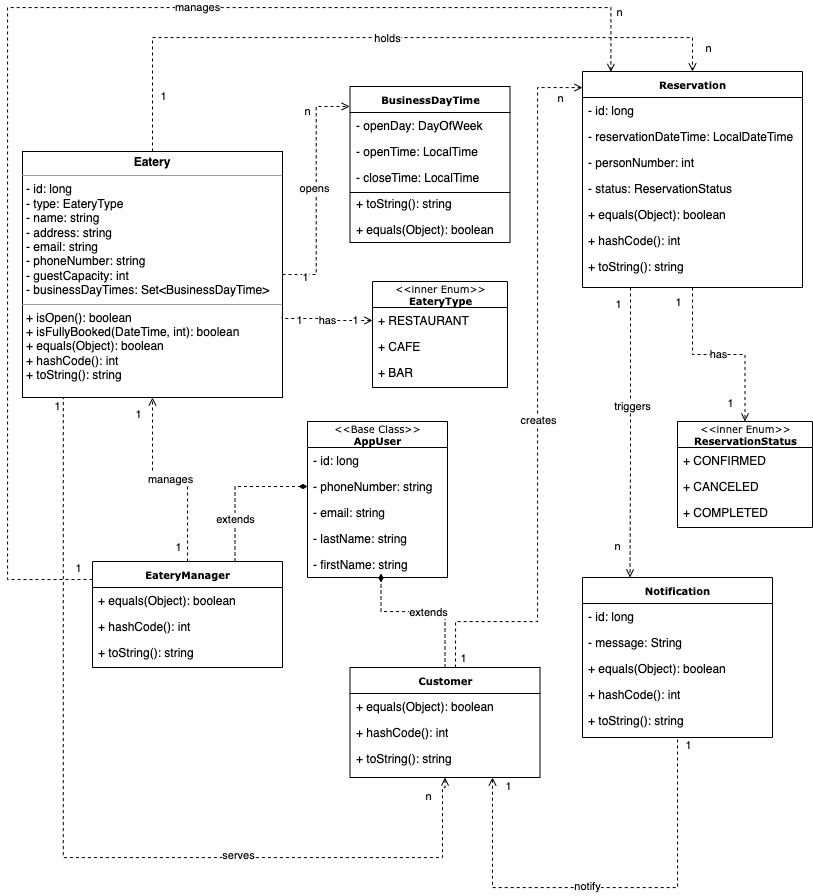
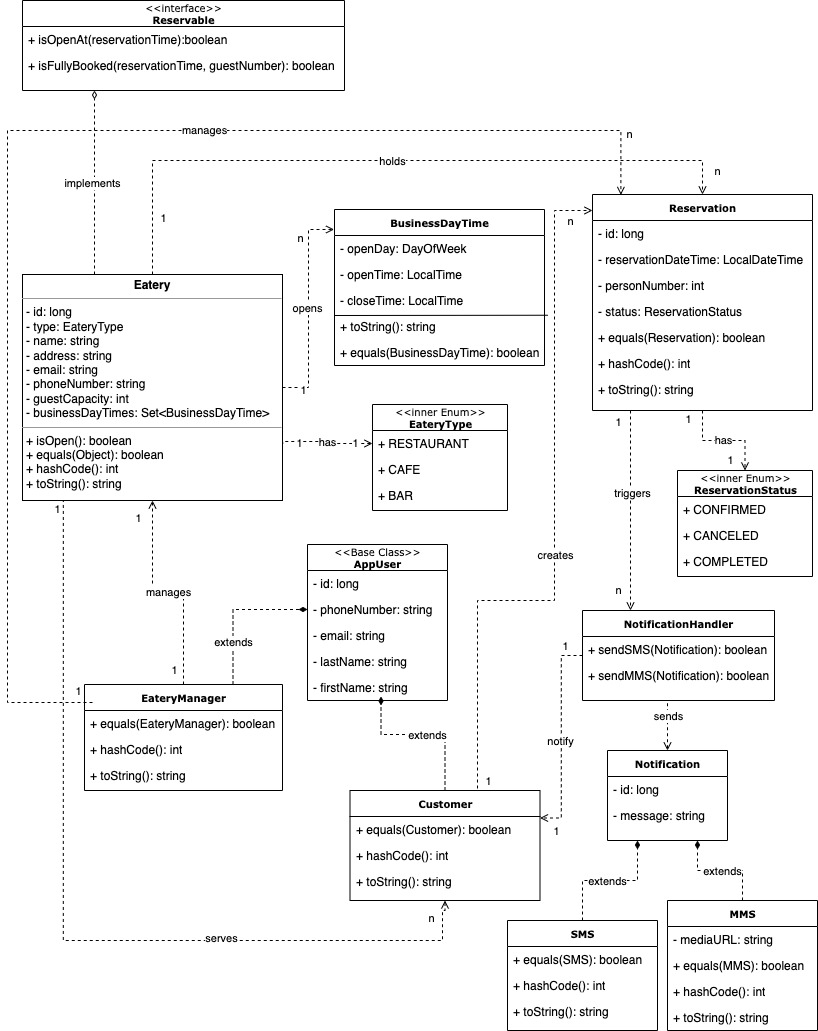
add reservable interface and factory pattern

diff --git a/src/main/java/com/eatery/entity/Eatery.java b/src/main/java/com/eatery/entity/Eatery.java
@@ -18,7 +18,7 @@ import java.util.Set;
 @Getter
 @Setter
 @NoArgsConstructor
-public class Eatery {
+public class Eatery implements Reservable{
     private @Id @GeneratedValue Long id;
     private Type type;
     @Column(nullable = false)
@@ -51,10 +51,22 @@ public class Eatery {
         this.phoneNumber = phoneNumber;
     }
 
-    public Eatery(Type type, String name, String address) {
+    private Eatery(Type type, String name, String address) {
         this.type = type;
         this.name = name;
         this.address = address;
+    }
+
+    /**
+     * Static factory pattern
+     * Creates Eatery object while isolating constructor
+     * @param type Eatery type
+     * @param name Eatery name
+     * @param address Eatery address
+     * @return Eatery object
+      */
+    public static Eatery from(Type type, String name, String address) {
+        return new Eatery(type, name, address);
     }
 
     public boolean isOpen() {
@@ -65,20 +77,29 @@ public class Eatery {
                 );
     }
 
-    public boolean isOpen(LocalDateTime atDateTime) {
+    /**
+     * Strategy pattern implementation
+     * Checks if eatery is open at reservation time
+     * @param reservationTime reservation time
+     * @return true when eatery is open at reservation time
+     */
+    @Override
+    public boolean isOpenAt(LocalDateTime reservationTime) {
         return this.businessDayTimes.stream()
                 .anyMatch(it ->
-                        it.openDay().equals(atDateTime.getDayOfWeek()) &&
-                                atDateTime.isAfter(ChronoLocalDateTime.from(it.openTime())) &&
-                                atDateTime.isBefore(ChronoLocalDateTime.from(it.closeTime()))
+                        it.openDay().equals(reservationTime.getDayOfWeek()) &&
+                                reservationTime.isAfter(ChronoLocalDateTime.from(it.openTime())) &&
+                                reservationTime.isBefore(ChronoLocalDateTime.from(it.closeTime()))
                 );
     }
 
     /**
+     * Strategy pattern implementation
      * Checks if eatery guest capacity is reached from reservation time until 2 hours after
      * @param atTime new entry of reservation time
-     * @return true if eatery guest capacity is reached
+     * @return true when eatery guest capacity is reached
      */
+    @Override
     public boolean isFullyBooked(LocalDateTime atTime, int newGuestNumber) {
         List<Reservation> currentReservations = this.reservationList.stream()
                 .filter(eateryReservation -> eateryReservation.getReservationDateTime().isAfter(atTime) &&

diff --git a/src/main/java/com/eatery/api/service/ReservationService.java b/src/main/java/com/eatery/api/service/ReservationService.java
@@ -46,7 +46,7 @@ public class ReservationService {
         int guestNumber = reservationRequest.getGuestNumber();
         Customer customer = reservationRequest.getCustomer();
 
-        if (!reservationEatery.isOpen(reservationTime) || reservationTime.isBefore(tomorrow)) {
+        if (!reservationEatery.isOpenAt(reservationTime) || reservationTime.isBefore(tomorrow)) {
             throw new ReservationBadRequestException(reservationTime);
         }
 

diff --git a/src/main/java/com/eatery/api/controller/EateryController.java b/src/main/java/com/eatery/api/controller/EateryController.java
@@ -55,7 +55,7 @@ public class EateryController {
             }
         }
 
-        Example<Eatery> searchSample = Example.of(new Eatery(eateryType, name, address), caseInsensitiveMatcher);
+        Example<Eatery> searchSample = Example.of(Eatery.from(eateryType, name, address), caseInsensitiveMatcher);
         return repository.findAll(searchSample);
     }
 

diff --git a/src/main/java/com/eatery/entity/Reservable.java b/src/main/java/com/eatery/entity/Reservable.java
@@ -1,0 +1,11 @@
+package com.eatery.entity;
+
+import java.time.LocalDateTime;
+
+/**
+ * Strategy pattern interface class
+ */
+public interface Reservable {
+    boolean isOpenAt(LocalDateTime reservationTime);
+    boolean isFullyBooked(LocalDateTime reservationTime, int guestNumber);
+}
